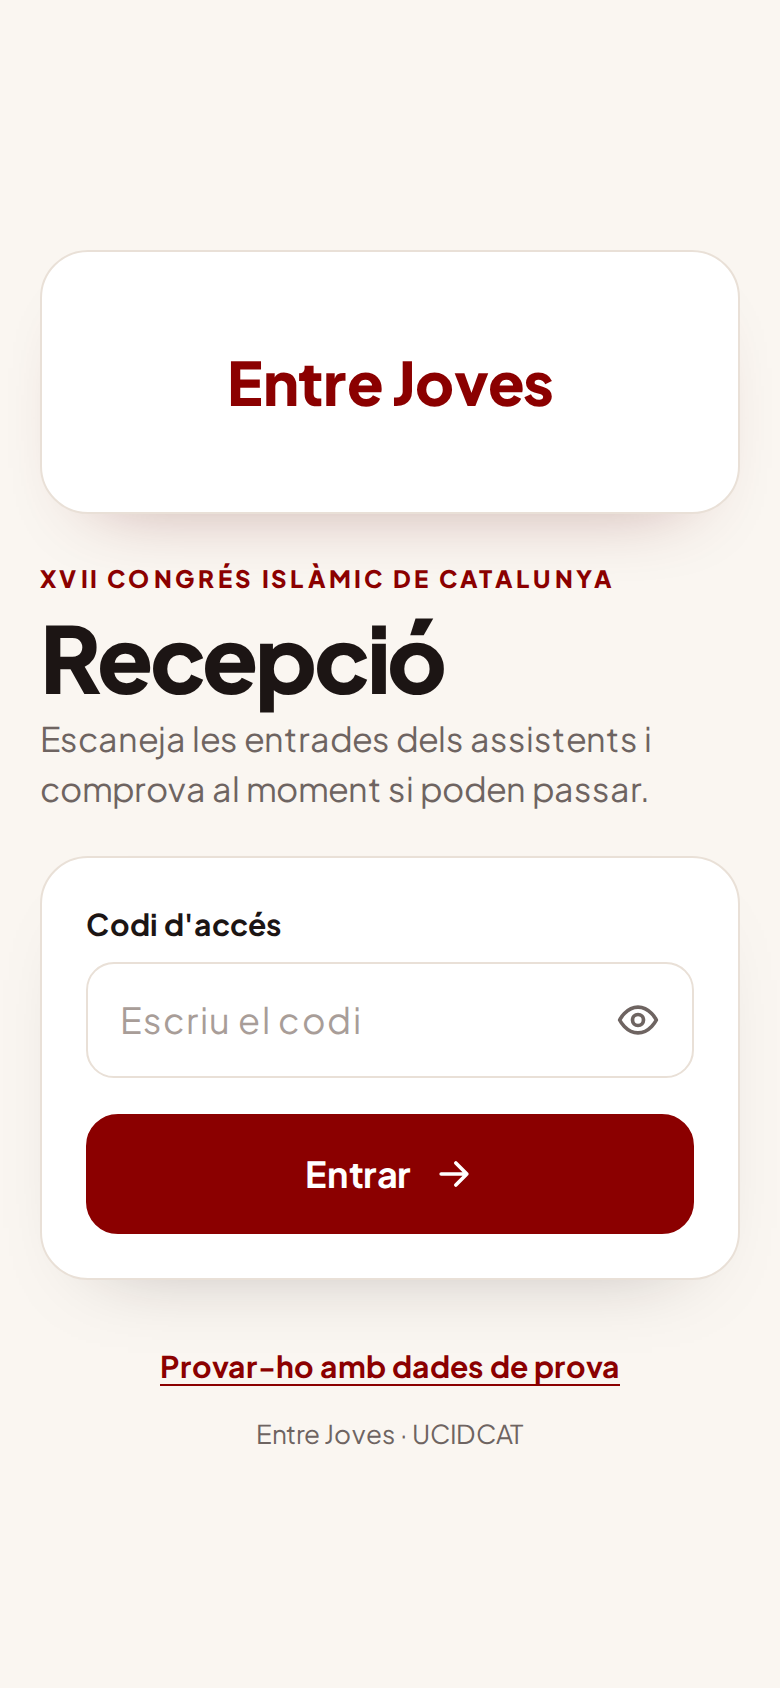
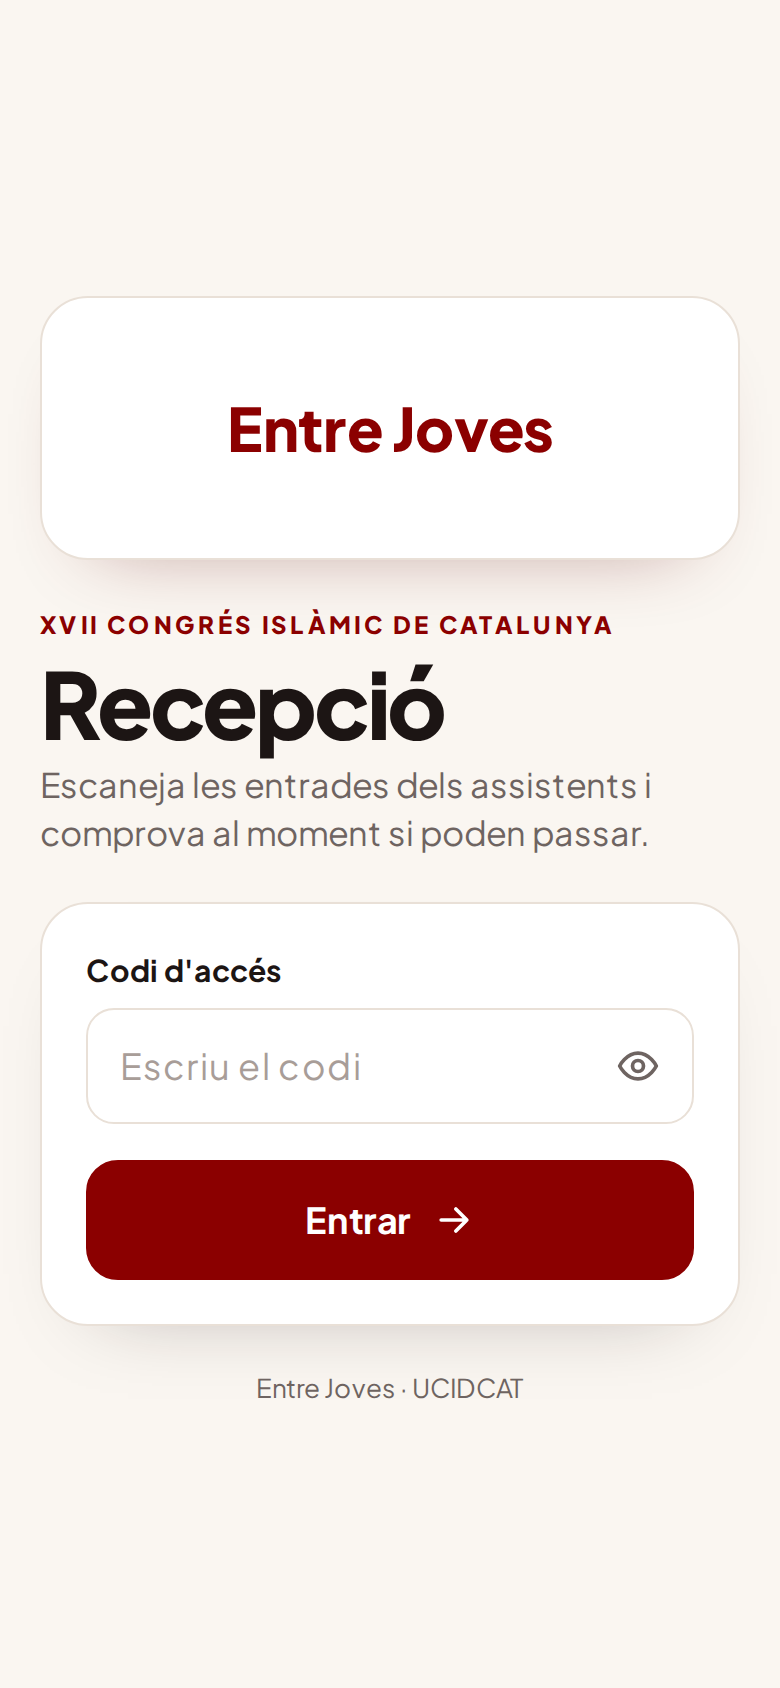
Recepció: fora l'avís "Sense connexió" i el mode de prova; sempre pregunta al full
- La fitxa del resultat ja no mostra l'etiqueta de sense connexió
- Fora el botó i la pàgina de dades de prova
- Cada registre es pregunta sempre primer al full (fins a 15 s; 30 s per
  descarregar la llista). Un temps d'espera ja no deixa l'app en mode
  sense connexió; només ho fa un error real de xarxa
- Prova nova: amb Google trigant 10 s, el registre va directe al full

Claude-Session: https://claude.ai/code/session_01FuhBsFQB1seCX3Sgpv4j61

Changed region(s): [[0.0308, 0.2156, 0.8923, 0.7701], [0.1846, 0.8009, 0.8, 0.8626], [0.9231, 0.5237, 0.9538, 0.5545]]

diff --git a/recepcio/app.js b/recepcio/app.js
@@ -7,7 +7,9 @@
 
   const CFG = window.RECEPCIO || {};
   const $ = (id) => document.getElementById(id);
-  const TEMPS_API_MS = 9000;          // Apps Script pot trigar uns segons
+  // Apps Script pot trigar uns segons, sobretot la primera consulta després d'estar aturat.
+  const TEMPS_API_MS = { registrar: 15000, cercar: 12000, ping: 12000, sincronitzar: 30000 };
+  const TEMPS_SI_SEMBLA_OFFLINE_MS = 6000;
   const BATEC_MS = 20000;             // cada quant es reintenta la cua / es comprova la connexió
   const SINCRO_MS = 3 * 60000;        // cada quant es refresca la llista per al mode sense connexió
   const MATEIX_CODI_MS = 4000;        // no tornar a llegir el mateix QR just després
@@ -23,7 +25,7 @@
   const K = { sessio: "recepcio-sessio", cache: "recepcio-cache", cua: "recepcio-cua", hist: "recepcio-historial", inc: "recepcio-incidencies" };
 
   const estat = {
-    sessio: guarda.get(K.sessio, null),      // { apiUrl, codi, demo }
+    sessio: guarda.get(K.sessio, null),      // { apiUrl, codi }
     cache: guarda.get(K.cache, null),        // { persones: [{h,n,t,f,r}], a, estadistiques }
     cua: guarda.get(K.cua, []),              // registres pendents d'enviar
     historial: guarda.get(K.hist, []),
@@ -93,17 +95,19 @@
   }
 
   // ------------------------------------------------------------------------
-  // API (Apps Script) — o el simulador en mode demostració
+  // API (Apps Script)
   // ------------------------------------------------------------------------
-  class SenseConnexio extends Error {}
+  class SenseConnexio extends Error {
+    constructor(motiu) { super(motiu); this.temps = motiu === "temps"; }
+  }
 
-  async function api(accio, dades = {}) {
+  async function api(accio, dades = {}, tempsMax = TEMPS_API_MS[accio] ?? 12000) {
     const s = estat.sessio;
     const cos = { accio, codi: s.codi, ...dades };
-    if (s.demo) return window.RecepcioDemo.gestionar(cos);
 
     const ctrl = new AbortController();
-    const temps = setTimeout(() => ctrl.abort(), TEMPS_API_MS);
+    let esgotat = false;
+    const temps = setTimeout(() => { esgotat = true; ctrl.abort(); }, tempsMax);
     let res;
     try {
       // text/plain evita la comprovació prèvia CORS; Apps Script llegeix el JSON igualment.
@@ -115,7 +119,7 @@
         redirect: "follow",
       });
     } catch {
-      throw new SenseConnexio("xarxa");
+      throw new SenseConnexio(esgotat ? "temps" : "xarxa");
     } finally {
       clearTimeout(temps);
     }
@@ -171,7 +175,7 @@
     const boto = $("inici-boto");
     boto.disabled = true;
     boto.querySelector("span").textContent = "Connectant…";
-    estat.sessio = { apiUrl, codi, demo: false };
+    estat.sessio = { apiUrl, codi };
     try {
       const r = await api("ping");
       if (!r.ok) throw new Error(r.error || "error");
@@ -191,39 +195,13 @@
     }
   });
 
-  $("boto-demo").addEventListener("click", async () => {
-    desbloquejarAudio();
-    await carregarDemo();
-    estat.sessio = { apiUrl: "", codi: "demo", demo: true };
-    guarda.set(K.sessio, estat.sessio);
-    entrarEscaner();
-  });
-
-  function carregarDemo() {
-    if (window.RecepcioDemo) return Promise.resolve();
-    return new Promise((ok, ko) => {
-      const s = el("script", { src: "demo.js" });
-      s.onload = ok;
-      s.onerror = ko;
-      document.head.append(s);
-    });
-  }
-
   function entrarEscaner() {
-    const s = estat.sessio;
     $("barra-esdeveniment").textContent = CFG.ESDEVENIMENT || "Congrés Islàmic de Catalunya";
-    $("avis-demo").hidden = !s.demo;
-    $("menu-proves").hidden = !s.demo;
     mostrar("escaner");
     mantenirPantalla();
     pintarEstadistiques(estat.cache?.estadistiques);
     pintarXarxa();
     sincronitzar().then(enviarCua);
-    const simular = guarda.get("recepcio-simular", null); // des de proves.html
-    if (simular) {
-      guarda.del("recepcio-simular");
-      setTimeout(() => processarCodi(simular), 500);
-    }
   }
 
   // ------------------------------------------------------------------------
@@ -290,7 +268,7 @@
       posarEnLinia(true);
       pintarMenu();
     } catch (e) {
-      if (e instanceof SenseConnexio) posarEnLinia(false);
+      if (e instanceof SenseConnexio && !e.temps) posarEnLinia(false);
     }
   }
 
@@ -349,9 +327,10 @@
     estat.ocupat = true;
     $("comprovant").hidden = false;
     try {
-      if (estat.enLinia) {
+      // Sempre es pregunta primer al full; només si no respon es fa servir la llista del mòbil.
+      if (navigator.onLine !== false) {
         try {
-          const r = await api("registrar", { qr, fila, metode });
+          const r = await api("registrar", { qr, fila, metode }, estat.enLinia ? TEMPS_API_MS.registrar : TEMPS_SI_SEMBLA_OFFLINE_MS);
           posarEnLinia(true);
           if (!r.ok) return mostrarResultat({ estat: "error_servidor" });
           actualitzarCache(r);
@@ -415,7 +394,6 @@
     $("res-hora-bloc").hidden = !r.registratA || !(ok || repetit);
     $("res-hora-etiqueta").textContent = ok ? "Hora d'entrada" : "Ja va entrar";
     $("res-hora").textContent = r.registratA ? hora(r.registratA) : "";
-    $("res-offline").hidden = !r.offline;
 
     const textos = {
       correcte: ["Pot passar", "Entrada registrada correctament"],
@@ -618,13 +596,13 @@
     if (text.length < 2) { llista.replaceChildren(); return; }
 
     let resultats = null;
-    if (estat.enLinia) {
+    if (navigator.onLine !== false) {
       $("cerca-nota").textContent = "Cercant…";
       try {
         const r = await api("cercar", { text });
         if (r.ok) resultats = r.resultats.map((x) => ({ ...x, offline: false }));
       } catch (e) {
-        if (e instanceof SenseConnexio) posarEnLinia(false);
+        if (e instanceof SenseConnexio && !e.temps) posarEnLinia(false);
       }
     }
     if (!resultats) {
@@ -755,7 +733,6 @@
   $("sortir-no").addEventListener("click", () => { $("confirmar-sortir").hidden = true; });
   $("sortir-si").addEventListener("click", () => {
     for (const k of Object.values(K)) guarda.del(k);
-    guarda.del("recepcio-demo-db");
     estat.cache = null;
     estat.cua = [];
     estat.historial = [];
@@ -803,13 +780,13 @@
   async function arrencar() {
     carregarLogos();
     if ("serviceWorker" in navigator) navigator.serviceWorker.register("sw.js").catch(() => {});
+    if (estat.sessio?.demo) { estat.sessio = null; guarda.del(K.sessio); } // el mode de prova ja no existeix
     if (estat.sessio) {
       // Si l'adreça de l'Apps Script canvia a config.js, els mòbils ja connectats la fan servir sense tornar a entrar.
-      if (!estat.sessio.demo && CFG.API_URL && estat.sessio.apiUrl !== CFG.API_URL) {
+      if (CFG.API_URL && estat.sessio.apiUrl !== CFG.API_URL) {
         estat.sessio.apiUrl = CFG.API_URL;
         guarda.set(K.sessio, estat.sessio);
       }
-      if (estat.sessio.demo) await carregarDemo().catch(() => {});
       entrarEscaner();
     } else {
       omplirInici(null);

diff --git a/recepcio/app.css b/recepcio/app.css
@@ -115,7 +115,7 @@ svg { fill: none; stroke: currentColor; stroke-width: 2; stroke-linecap: round; 
 .inici-sub { color: var(--gris); font-size: 17px; max-width: 34ch; }
 .targeta { background: var(--paper); border: 1px solid var(--linia); border-radius: 24px; padding: 22px; box-shadow: 0 18px 40px -30px rgba(28, 21, 20, .35); }
 .formulari { display: flex; flex-direction: column; gap: 18px; }
-.inici-peu { display: flex; flex-direction: column; align-items: center; gap: 4px; font-size: 13px; color: var(--gris); }
+.inici-peu { display: flex; justify-content: center; font-size: 13px; color: var(--gris); }
 
 /* ---------------- 2. Escàner ---------------- */
 body.a-escaner { background: var(--nit); color-scheme: dark; }
@@ -141,7 +141,6 @@ body.a-escaner { background: var(--nit); color-scheme: dark; }
 .estat-xarxa.offline .punt, .estat-xarxa.pendent .punt { background: var(--avis); box-shadow: 0 0 0 4px rgba(243, 184, 70, .18); }
 .estat-xarxa.offline .punt { animation: parpelleig 1.4s ease-in-out infinite; }
 
-.avis-demo { text-align: center; font-size: 13px; font-weight: 700; padding: 7px 10px; border-radius: 10px; background: var(--grana); color: #FFFFFF; }
 
 .comptador { display: flex; flex-direction: column; gap: 10px; padding: 14px 16px; border-radius: 20px; background: var(--nit-2); border: 1px solid var(--nit-linia); }
 .comptador-fila { display: flex; justify-content: space-between; align-items: flex-end; gap: 12px; }
@@ -225,7 +224,6 @@ body.a-escaner { background: var(--nit); color-scheme: dark; }
 .res-dades dd { margin: 2px 0 0; font-size: 20px; font-weight: 800; font-variant-numeric: tabular-nums; overflow-wrap: anywhere; }
 .resultat.repetit #res-hora-bloc { background: var(--ko-suau); }
 .resultat.repetit #res-hora { color: var(--ko-fosc); }
-.res-offline { position: absolute; top: 12px; right: 12px; font-size: 11px; font-weight: 800; letter-spacing: .04em; text-transform: uppercase; padding: 4px 9px; border-radius: 999px; background: #FCEBC8; color: #7A4B00; }
 
 .res-seguent {
   width: 100%; max-width: 460px; margin: 0 auto; flex-shrink: 0;

diff --git a/recepcio/index.html b/recepcio/index.html
@@ -54,7 +54,6 @@
   </form>
 
   <footer class="inici-peu">
-    <button class="enllac" type="button" id="boto-demo">Provar-ho amb dades de prova</button>
     <span>Entre Joves · UCIDCAT</span>
   </footer>
 </main>
@@ -76,8 +75,6 @@
       <span class="punt" aria-hidden="true"></span><span id="estat-text">En línia</span>
     </button>
   </header>
-
-  <p class="avis-demo" id="avis-demo" hidden>Dades de prova · no es toca el full real</p>
 
   <section class="comptador" aria-label="Assistents que han entrat">
     <div class="comptador-fila">
@@ -143,7 +140,6 @@
     </div>
 
     <article class="res-fitxa" id="res-fitxa">
-      <span class="res-offline" id="res-offline" hidden>Sense connexió</span>
       <strong class="res-nom" id="res-nom"></strong>
       <span class="res-tipus" id="res-tipus"></span>
       <dl class="res-dades">
@@ -196,10 +192,6 @@
     <li id="menu-incidencies-fila" hidden>
       <div><strong>Incidències</strong><span id="menu-incidencies-text"></span></div>
       <button class="boto petit" type="button" id="veure-incidencies">Veure</button>
-    </li>
-    <li id="menu-proves" hidden>
-      <div><strong>Codis QR de prova</strong><span>Per provar l'escàner amb dades inventades</span></div>
-      <a class="boto petit" href="proves.html">Obrir</a>
     </li>
     <li>
       <div><strong>Tancar sessió</strong><span>Esborra les dades d'aquest mòbil</span></div>

diff --git a/recepcio/sw.js b/recepcio/sw.js
@@ -1,13 +1,12 @@
 // Guarda l'app perquè s'obri encara que no hi hagi cobertura a l'entrada.
 // Les consultes a l'Apps Script no es guarden mai aquí (les dades offline les gestiona app.js).
 // Puja VERSIO cada vegada que canviïs algun fitxer de la llista.
-const VERSIO = "recepcio-v5";
+const VERSIO = "recepcio-v6";
 const FITXERS = [
   "./",
   "./app.css",
   "./app.js",
   "./config.js",
-  "./demo.js",
   "./manifest.webmanifest",
   "./vendor/jsQR-1.4.0.js",
   "./fonts/plus-jakarta-sans.woff2",

diff --git a/README.md b/README.md
@@ -4,7 +4,6 @@ App web per a l'equip de recepció: **escaneja el QR que ja reben els assistents
 
 - **App:** carpeta [`recepcio/`](recepcio/) — es publica sola a GitHub Pages: https://zaka-atm.github.io/qr-event-attendance/
 - **Connexió amb el full:** [`apps-script/Codi.gs`](apps-script/Codi.gs) — instal·lació pas a pas a [`apps-script/LLEGEIX-ME.md`](apps-script/LLEGEIX-ME.md)
-- **Mode demostració:** a la pantalla d'inici, «Provar-ho en mode demostració», amb codis QR de prova.
 
 | Inici | Escàner | Pot passar | Ja ha entrat | No ha pagat | Cerca manual | Sense connexió |
 |---|---|---|---|---|---|---|
